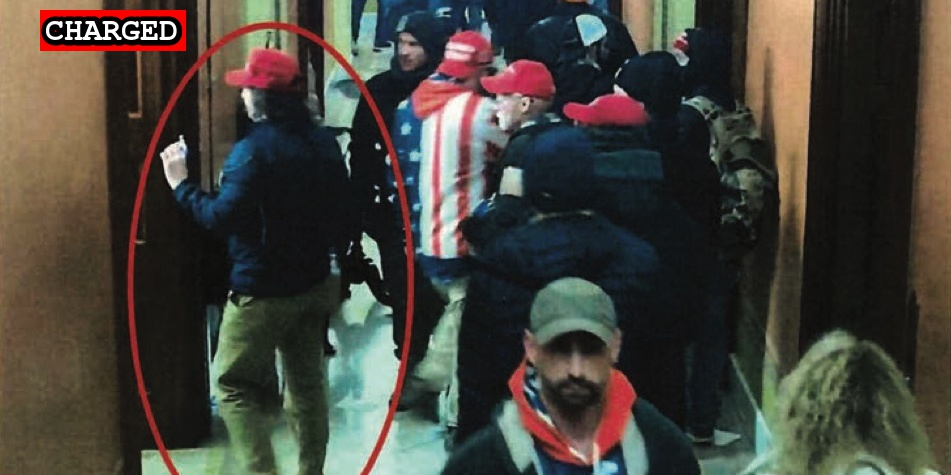
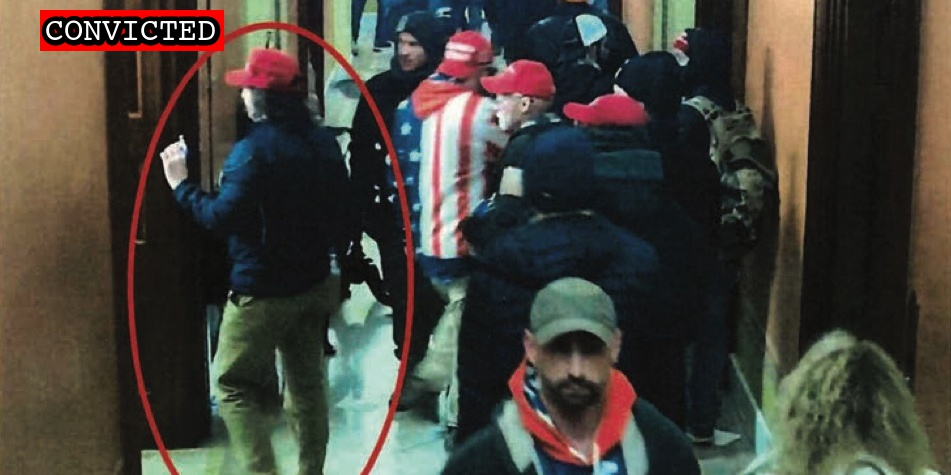
Guilty plea (all charges)

Changed region(s): [[0.0305, 0.0, 0.244, 0.1179]]

diff --git a/docs/_suspects/lawrence-dropkin.md b/docs/_suspects/lawrence-dropkin.md
@@ -4,16 +4,18 @@ lastName: Dropkin
 hashtag:
 aka:
 residence: New Jersey
-status: Charged
+status: Convicted
 date: 2021-09-13
 charged: 2021-09-13
 indicted:
-convicted:
+convicted: 2022-07-12
+acquitted:
 sentenced:
 dismissed:
 deceased:
-plea_hearing:
-sentencing:
+plea_hearing: 2022-07-12
+trial_date:
+sentencing: 2022-10-07
 age:
 occupation:
 affiliations:
@@ -34,8 +36,25 @@ published: true
 caseNumber: 1:21-cr-734
 videos:
 charges:
+  - code: 18 USC § 1752(a)(1)
+    title: Entering a restricted building or grounds
+    url: https://www.law.cornell.edu/uscode/text/18/1752
+    felony: false
+  - code: 18 USC § 1752(a)(2)
+    title: Disorderly and disruptive conduct in a restricted building or grounds
+    url: https://www.law.cornell.edu/uscode/text/18/1752
+    felony: false
+  - code: 40 USC § 5104(e)(2)(D)
+    title: Disorderly Conduct in a Capitol Building
+    url: https://www.law.cornell.edu/uscode/text/40/5104
+    felony: false
+  - code: 40 USC § 5104(e)(2)(G)
+    title: Parading, demonstrating or picketing in a Capitol building
+    url: https://www.law.cornell.edu/uscode/text/40/5104
+    felony: false
 sentence:
 ---
+
 - [News Report](https://www.nj.com/news/2022/01/ex-marine-among-4-more-suspects-from-nj-charged-in-capitol-riot.html)
 - [Statement of Facts](https://www.justice.gov/usao-dc/case-multi-defendant/file/1457616/download)
 - [Information](https://www.justice.gov/usao-dc/case-multi-defendant/file/1457621/download)
